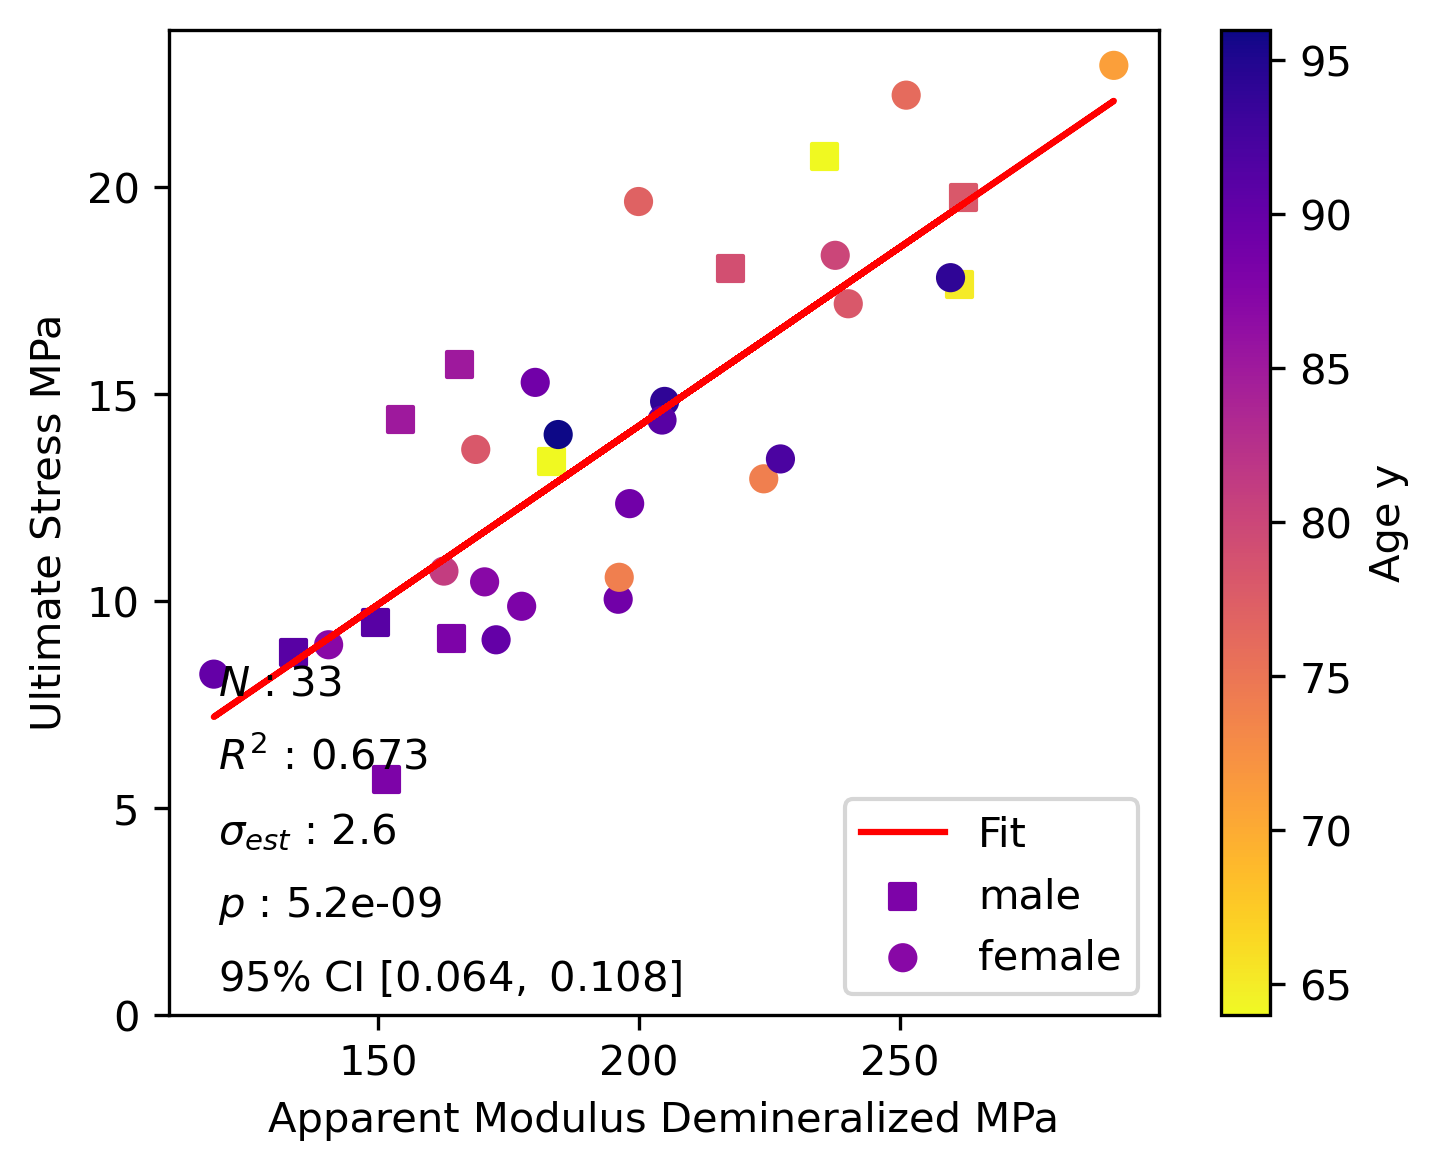
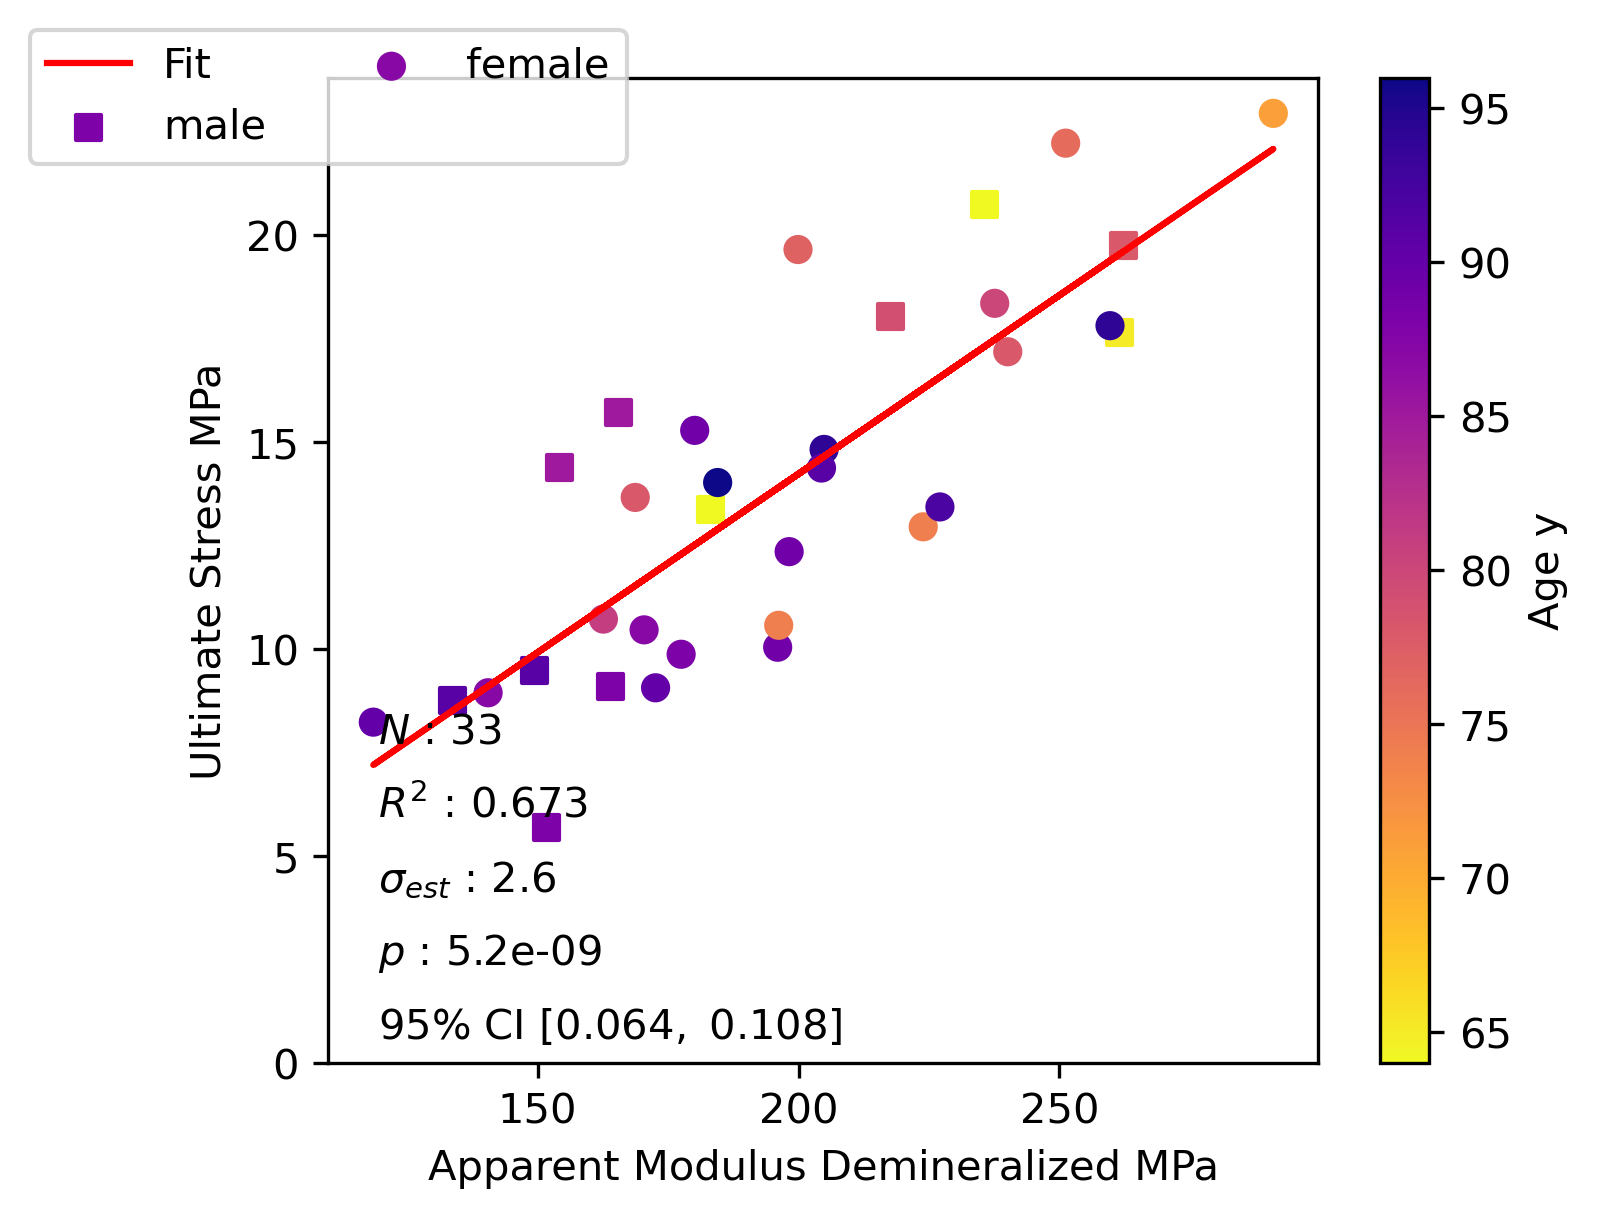
addition of M2M ratio, change of correlation matrix

diff --git a/03_Scripts/plots_new.py b/03_Scripts/plots_new.py
@@ -250,13 +250,14 @@ for i in range(len(Pair)):
                                                         'Age',   'Age', 'BMC'],
                                    'y_axis_abbrev': ['BMD', 'BVTV',   'D', 'MWF', 'OWF', 'TMD', 'MEANAA', 'MINA',
                                                      'MEANAF', 'MINAF', 'MWF']})
-    # if p-value smaller than 0.05 create fit curve and if variable 'Age' should be plotted, no colormap will be used
+    # if p-value smaller than 0.05 create fit curve and if variable 'Age' should not be plotted on main axis, no
+    # colormap will be used
     if float(p) <= 0.05:
         if x_axis != 'Age':
-            # ax2 = sns.regplot(x=X_np[:, 1], y=Y_Obs_np, color='0.7', scatter=False)
+            # sns.regplot(x=FitResults.model.exog[:,1], y=Y_Obs, ax=Axes, scatter=False)
             Axes.plot(X[:, 1], Y_Fit, color=(1, 0, 0), label='Fit')
-            Axes.fill_between(X_Obs, Sorted_CI_o, Sorted_CI_u, color=(0, 0, 0), alpha=0.1,
-                              label=str(int(Alpha * 100)) + '% CI')
+            # Axes.fill_between(X_Obs, Sorted_CI_o, Sorted_CI_u, color=(0, 0, 0), alpha=0.1,
+            #                   label=str(int(Alpha * 100)) + '% CI')
             Axes.scatter(X_np[:, 1][Data['Gender'] == 'M'], Y_Obs_np[Data['Gender'] == 'M'],
                          c=list(tuple(male_age.tolist())), cmap='plasma_r', vmin=Data['Age'].min(),
                          vmax=Data['Age'].max(), label='male', marker='s')
@@ -281,7 +282,7 @@ for i in range(len(Pair)):
                 # plt.ylim(ymin=0, ymax=round(Y_Fit.max() * 1.2, 2))
                 plt.autoscale()
                 plt.subplots_adjust(left=0.15, bottom=0.15)
-                plt.legend(loc='lower right')
+                plt.legend(loc='upper center', bbox_to_anchor=(0,1.07), ncol=2)
                 plt.savefig(os.path.join(savepath, Data2Fit.columns[0] + '_' + Data2Fit.columns[1] + '.png'),
                             dpi=300, bbox_inches='tight')
                 plt.show()
@@ -289,18 +290,18 @@ for i in range(len(Pair)):
             else:
                 plt.ylim(ymin=0)
                 plt.subplots_adjust(left=0.15, bottom=0.15)
-                plt.legend(loc='lower right')
+                plt.legend(loc='upper center', bbox_to_anchor=(0,1.07), ncol=2)
                 plt.savefig(os.path.join(savepath, Data2Fit.columns[0] + '_' + Data2Fit.columns[1] + '.png'),
                             dpi=300, bbox_inches='tight')
                 plt.show()
             # plt.close(Figure)
 
-        # use of colormap if age is not plotted on main axes
+        # don't use colormap if age is plotted on main axes
         else:
-            # sns.regplot(x=X_np[:, 1], y=Y_Fit, color='0.7', scatter=False)
+            # sns.regplot(x=FitResults.model.exog[:,1], y=Y_Obs, ax=Axes, scatter=False)
             Axes.plot(X[:, 1], Y_Fit, color=(1, 0, 0), label='Fit')
-            # Axes.fill_between(X_Obs, np.sort(CI_Line_o), np.sort(CI_Line_u), color=(0, 0, 0), alpha=0.1,
-            #                   label=str(int(Alpha*100)) + '% CI')
+            # Axes.fill_between(X_Obs, Sorted_CI_o, Sorted_CI_u, color=(0, 0, 0), alpha=0.1,
+            #                   label=str(int(Alpha * 100)) + '% CI')
             Axes.plot(X[:, 1][Data['Gender'] == 'M'], Y_Obs[Data['Gender'] == 'M'], linestyle='none', marker='s',
                       color=(0, 0, 0), fillstyle='none', label='male')
             Axes.plot(X[:, 1][Data['Gender'] == 'F'], Y_Obs[Data['Gender'] == 'F'], linestyle='none', marker='o',

diff --git a/03_Scripts/CorrMat.py b/03_Scripts/CorrMat.py
@@ -28,18 +28,35 @@ df_new.columns = ['Bone Volume Fraction', 'Bone Mineral Density', 'Tissue Minera
                   'Organic Weight Fraction', 'Water Weight Fraction', 'Bone Density', 'Apparent Modulus Mineralized',
                   'Apparent Modulus Demineralized', 'Ultimate Stress', 'Ultimate Strain']
 corr_matrix = df_new.corr()
+
+from scipy.stats import linregress
+
+for i in df_new.columns:
+    for j in df_new.columns:
+        corr_matrix.loc[i, j] = round(linregress(df_new[j], df_new[i])[3], 3)
+
+
+
+p_matrix = pd.DataFrame()
 mask = np.zeros_like(corr_matrix, dtype=np.bool_)
 mask[np.triu_indices_from(mask)] = True
+
+# Colormap trick
+from matplotlib import cm
+from matplotlib.colors import ListedColormap
+viridis = cm.get_cmap('plasma', 8)
+newcolors = viridis(np.linspace(0, 1, 8))
+newcmp = ListedColormap(newcolors)
 
 f, ax = plt.subplots(figsize=(11, 15))
 heatmap = sns.heatmap(corr_matrix,
                       mask=mask,
                       square=True,
                       linewidths=.5,
-                      cmap='plasma_r',
+                      cmap=newcmp,
                       cbar_kws={'shrink': .5,
-                                'ticks': [-1, -.5, 0, 0.5, 1]},
-                      vmin=-1,
+                                'ticks': np.linspace(0, 1, 9)},
+                      vmin=0,
                       vmax=1,
                       annot=True,
                       annot_kws={'size': 12})
